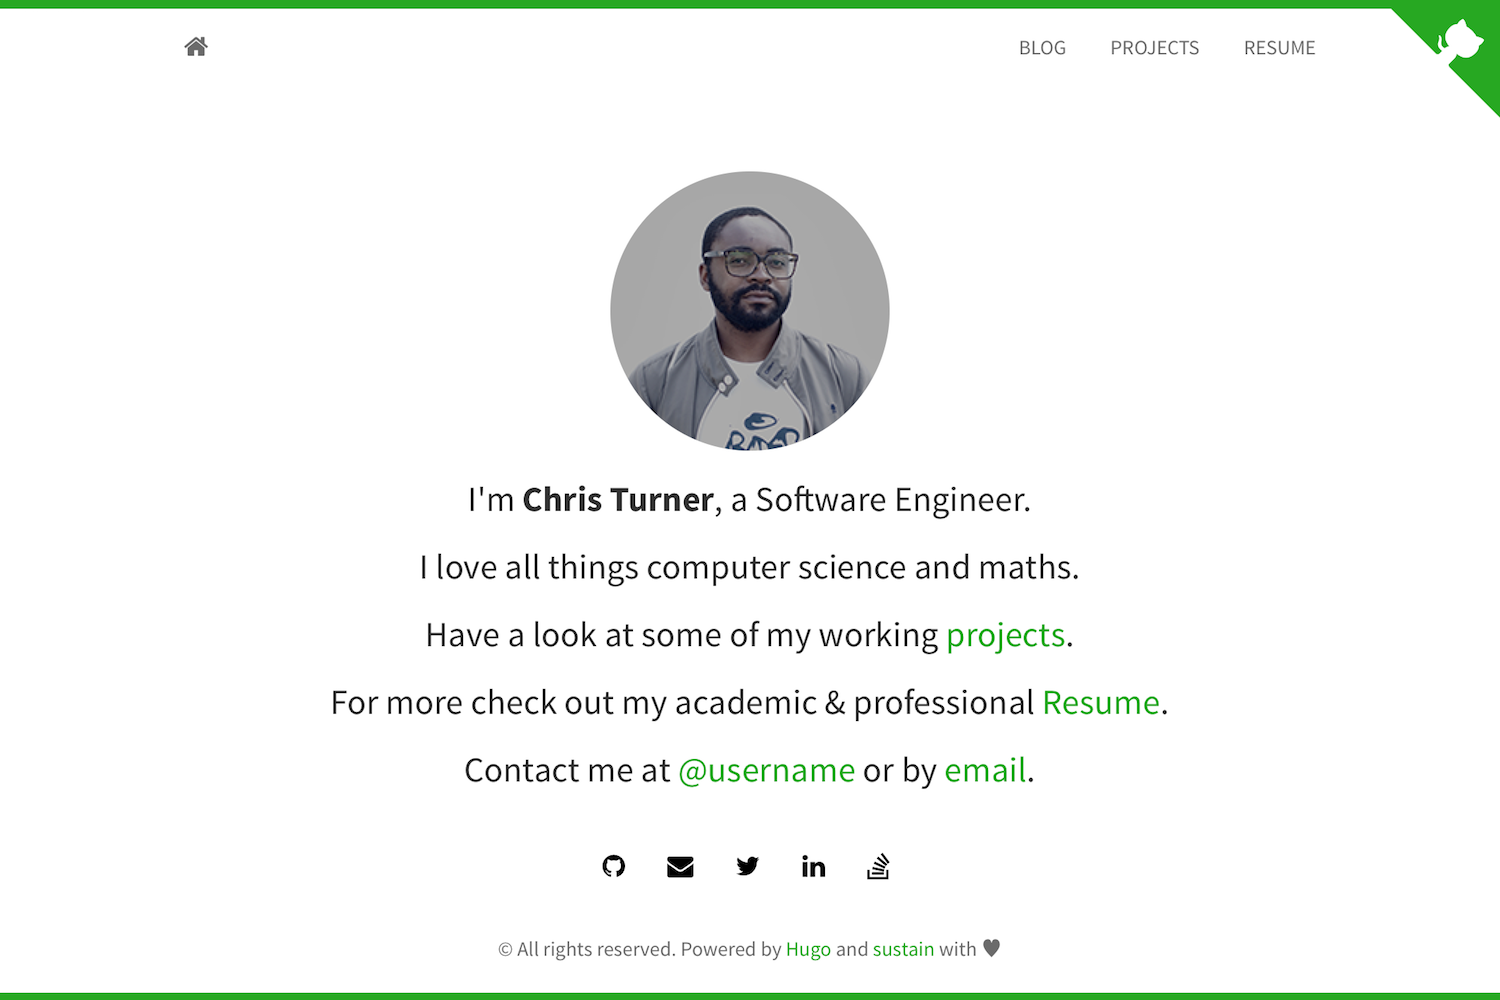
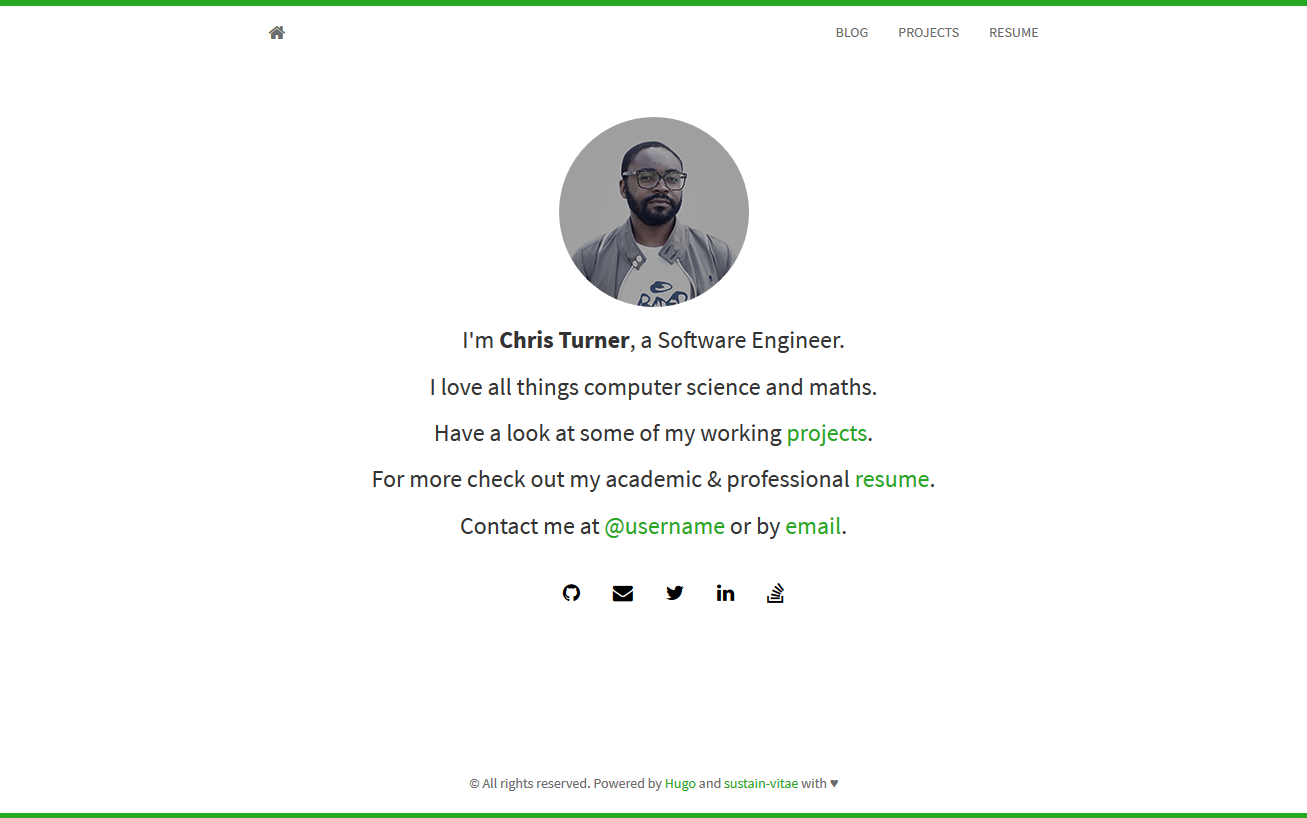
updates images & link to live demo

diff --git a/README.md b/README.md
@@ -15,11 +15,12 @@
 
 ********************
 
-![Sustain Screen][screenshot]
+![Sustain Screen](images/screenshot.png)
+![Vitae Screen](images/screenshot-vitae.png)
 
 ********************
 
-<p align="center"><b><a href="https://demo.nurlan.co/hugo-sustain/">Sustain Live Demo</a></b></p>
+<p align="center"><b><a href="https://anirbanmu.com/hugo-sustain-vitae/">Sustain-vitae Live Demo</a></b></p>
 
 ## Installation
 
@@ -129,7 +130,6 @@ Pull requests, bug fixes, and new features are welcome!
 
 
 [logo]: https://i.nurlan.co/sustain.png
-[screenshot]: https://i.nurlan.co/sustain-screen.png
 [bootstrap]: https://getbootstrap.com/
 [hugo]: https://gohugo.io/
 [gh-pages]: https://pages.github.com/
